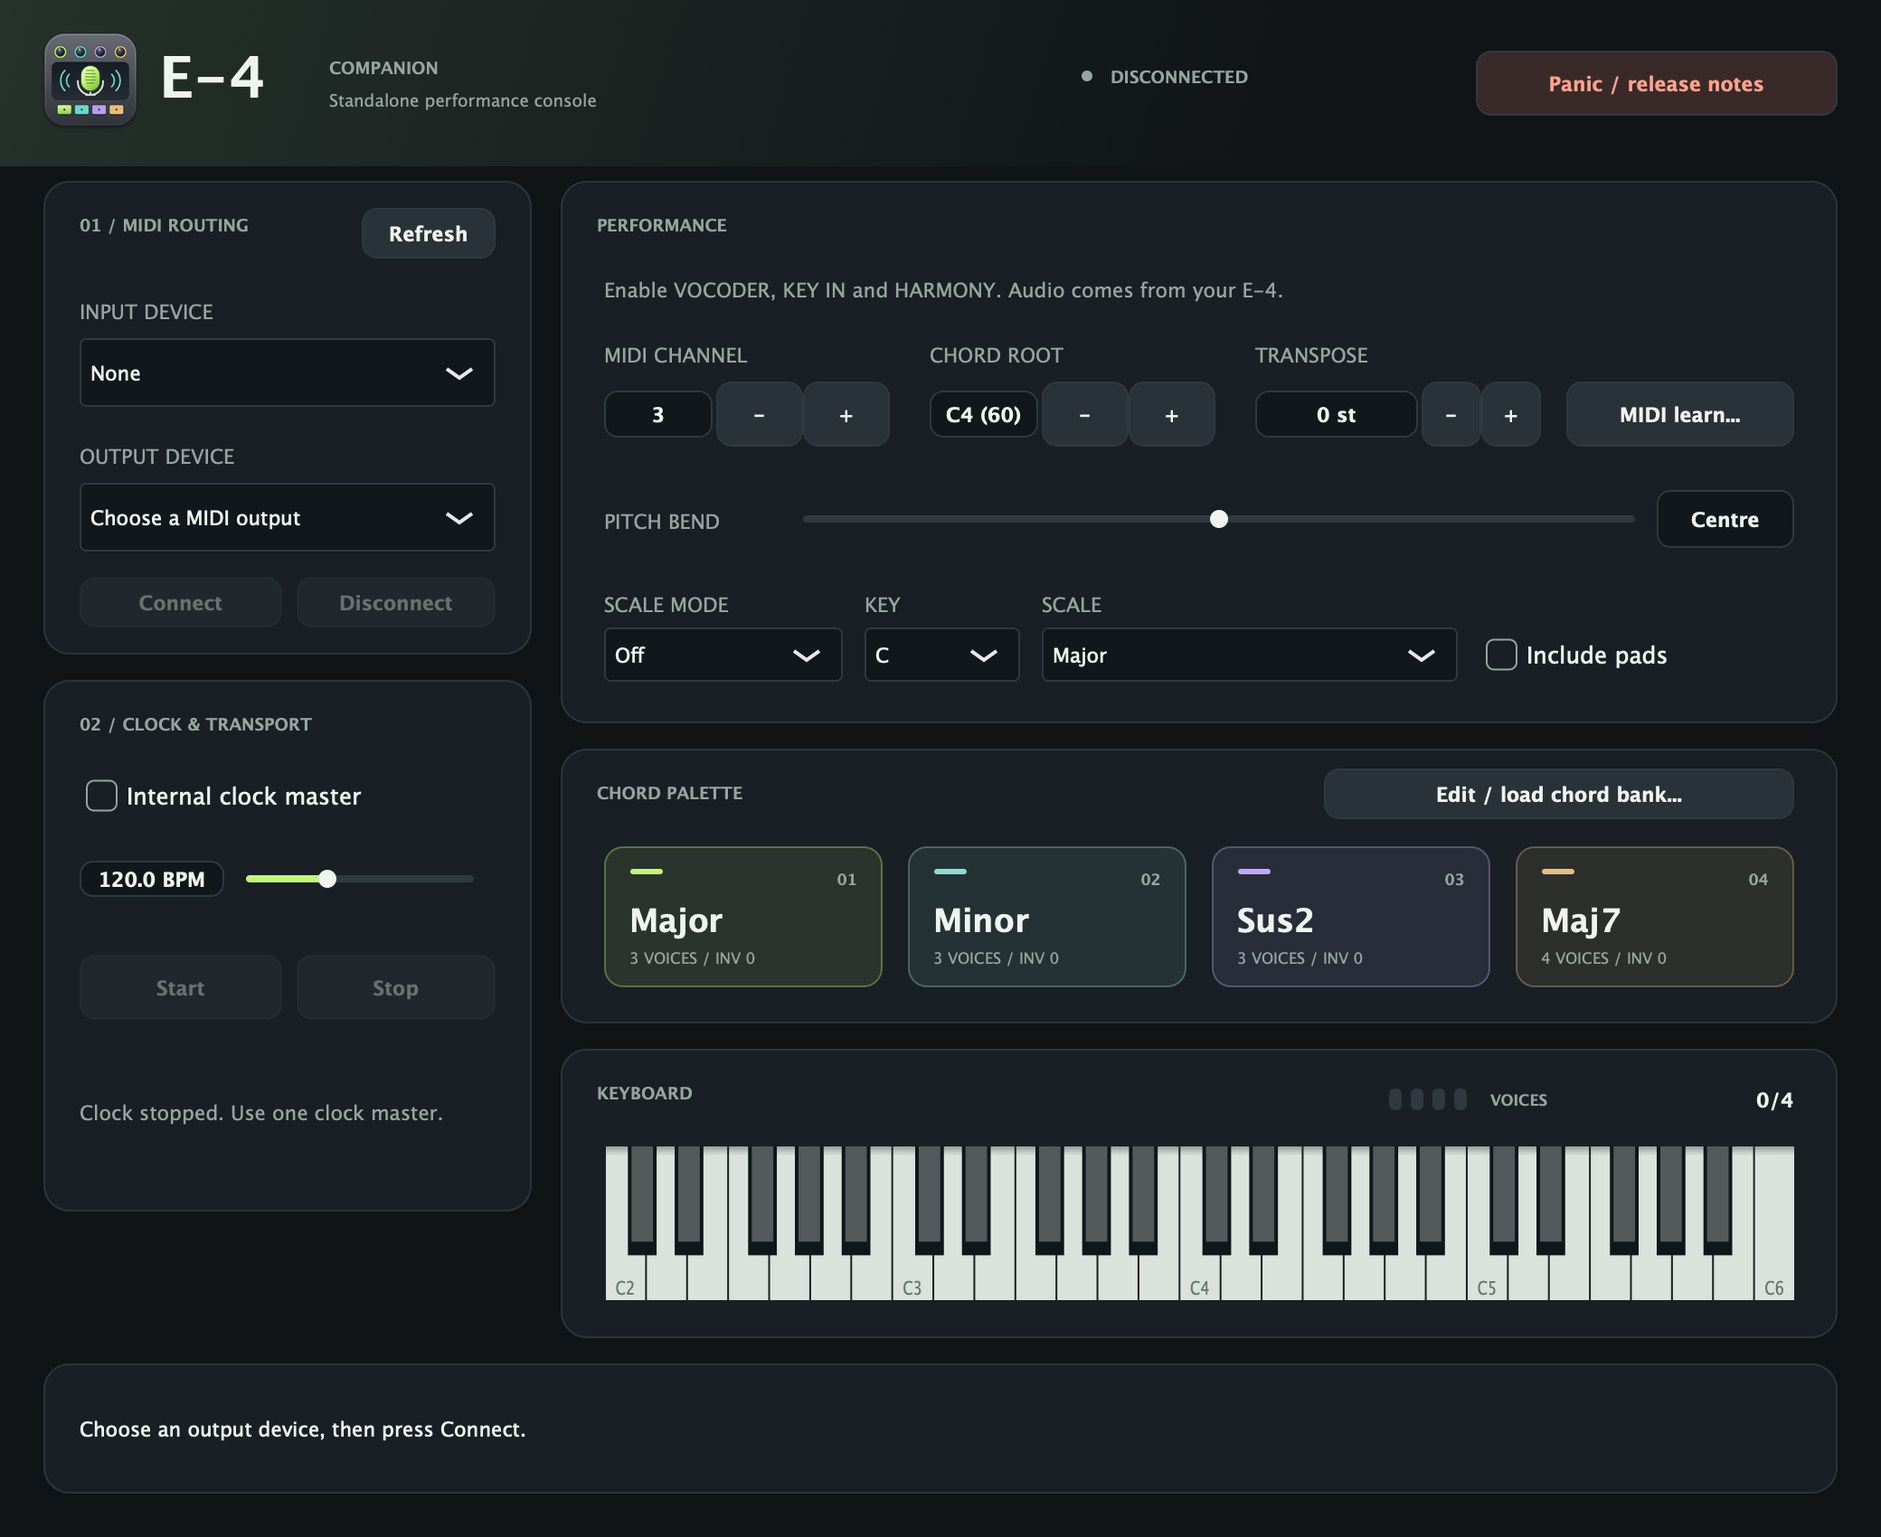
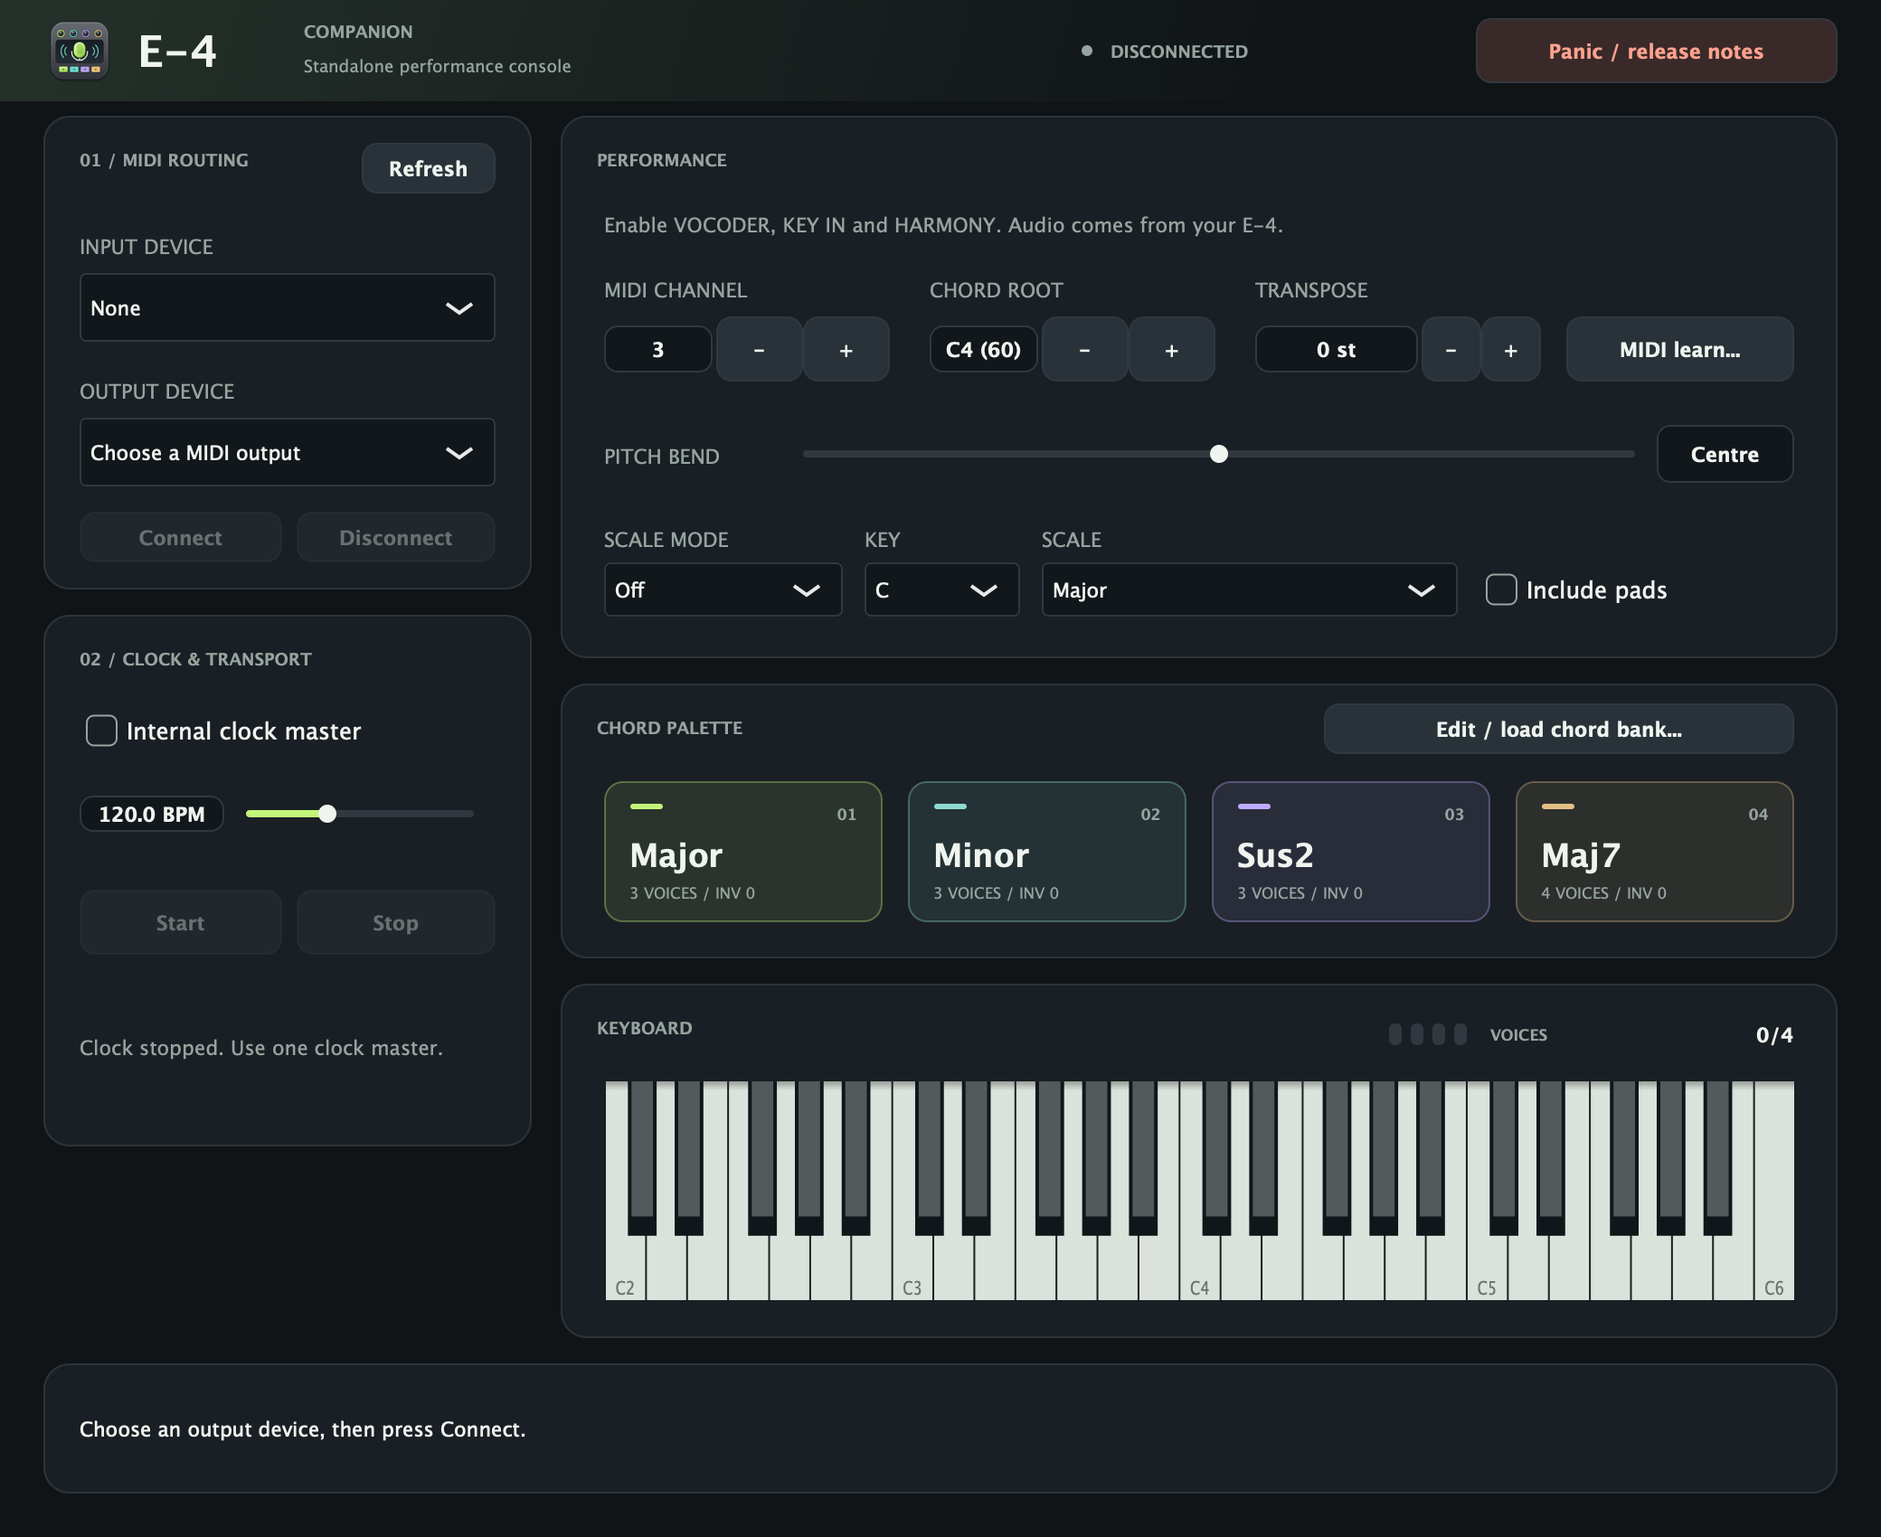
Release 1.0.0 with compact header and taller performance keyboards

diff --git a/Source/StudioTheme.h b/Source/StudioTheme.h
@@ -188,29 +188,29 @@ inline void surface(juce::Graphics& g,int width,int height,bool standalone,bool 
     g.addTransform(juce::AffineTransform::scale(static_cast<float>(width)/designWidth,static_cast<float>(height)/designHeight));
     g.fillAll(background);
     g.setGradientFill(juce::ColourGradient(juce::Colour(0xff25312a),0,0,background,designWidth*0.65f,200,false));
-    g.fillRect(0.0f,0.0f,designWidth,92.0f);
+    g.fillRect(0.0f,0.0f,designWidth,56.0f);
     static const auto logo = [] {
         int size = 0;
         const auto* data = E4BrandData::getNamedResource(E4BrandData::namedResourceList[0],size);
         return juce::ImageCache::getFromMemory(data,size);
     }();
-    g.drawImageWithin(logo,18,12,64,64,juce::RectanglePlacement::centred);
-    g.setColour(text); g.setFont(font(37,true)); g.drawText("E-4",88,18,85,48,juce::Justification::left);
-    g.setColour(muted); g.setFont(font(11,true)); g.drawText("COMPANION",182,28,130,18,juce::Justification::left);
-    g.setFont(font(11)); g.drawText(standalone ? "Standalone performance console" : "Hardware performance plug-in",182,47,240,16,juce::Justification::left);
-    g.setColour(connected ? accent : muted); g.fillEllipse(designWidth-442,39,6,6);
-    g.setFont(font(11,true)); g.drawText(standalone ? (connected ? "CONNECTED" : "DISCONNECTED") : "HOST ROUTING",static_cast<int>(designWidth)-426,31,170,22,juce::Justification::left);
+    g.drawImageWithin(logo,24,8,40,40,juce::RectanglePlacement::centred);
+    g.setColour(text); g.setFont(font(28,true)); g.drawText("E-4",76,9,76,38,juce::Justification::left);
+    g.setColour(muted); g.setFont(font(11,true)); g.drawText("COMPANION",168,9,130,16,juce::Justification::left);
+    g.setFont(font(11)); g.drawText(standalone ? "Standalone performance console" : "Hardware performance plug-in",168,28,240,16,juce::Justification::left);
+    g.setColour(connected ? accent : muted); g.fillEllipse(designWidth-442,25,6,6);
+    g.setFont(font(11,true)); g.drawText(standalone ? (connected ? "CONNECTED" : "DISCONNECTED") : "HOST ROUTING",static_cast<int>(designWidth)-426,17,170,22,juce::Justification::left);
     if (standalone) {
-        card(g,{24,100,270,262},"01 / MIDI ROUTING");
-        card(g,{24,376,270,294},"02 / CLOCK & TRANSPORT");
-        card(g,{310,100,706,300},"PERFORMANCE");
-        card(g,{310,414,706,152},"CHORD PALETTE");
-        card(g,{310,580,706,160},"KEYBOARD");
+        card(g,{24,64,270,262},"01 / MIDI ROUTING");
+        card(g,{24,340,270,294},"02 / CLOCK & TRANSPORT");
+        card(g,{310,64,706,300},"PERFORMANCE");
+        card(g,{310,378,706,152},"CHORD PALETTE");
+        card(g,{310,544,706,196},"KEYBOARD");
         card(g,{24,754,992,72},"");
     } else {
-        card(g,{24,100,912,280},"PERFORMANCE");
-        card(g,{24,394,912,144},"CHORD PALETTE");
-        card(g,{24,552,912,128},"KEYBOARD");
+        card(g,{24,64,912,280},"PERFORMANCE");
+        card(g,{24,358,912,144},"CHORD PALETTE");
+        card(g,{24,516,912,164},"KEYBOARD");
         g.setColour(muted); g.setFont(font(11)); g.drawText("MIDI TO YOUR HARDWARE. AUDIO FROM YOUR E-4.",24,691,912,16,juce::Justification::left);
     }
 }

diff --git a/Source/StandaloneMain.cpp b/Source/StandaloneMain.cpp
@@ -252,24 +252,24 @@ public:
     void resized() override {
         const auto place = [this](juce::Component& c,int x,int y,int w,int h) { c.setBounds(e4::ui::bounds(x,y,w,h,getWidth(),getHeight(),true)); };
         title.setBounds(0,0,0,0);
-        place(panic,816,28,200,36);
-        place(refresh,200,115,74,28);
-        place(inputLabel,44,163,230,18); place(inputs,44,187,230,38);
-        place(outputLabel,44,243,230,18); place(outputs,44,267,230,38);
-        place(connect,44,319,112,28); place(disconnect,164,319,110,28);
-        place(clockEnable,44,426,230,28); place(tempo,44,466,230,40);
-        place(start,44,528,112,36); place(stop,164,528,110,36);
-        place(clockState,44,584,230,62);
-        place(help,334,146,658,28);
-        place(channelLabel,334,187,160,18); place(channel,334,211,160,36);
-        place(mappingButton,866,211,126,36);
-        place(rootLabel,514,187,160,18); place(root,514,211,160,36);
-        place(transposeLabel,694,187,160,18); place(transpose,694,211,160,36);
-        place(scaleControls,334,326,658,52);
-        place(bendLabel,334,278,90,20); place(bend,432,267,560,40);
-        for (int i = 0; i < 4; ++i) place(pads[static_cast<std::size_t>(i)],334+i*168,468,154,78);
-        place(bankButton,732,425,260,28);
-        voices.setBounds(0,0,0,0); place(voiceDisplay,768,597,224,22); place(keyboard,334,634,658,86);
+        place(panic,816,10,200,36);
+        place(refresh,200,79,74,28);
+        place(inputLabel,44,127,230,18); place(inputs,44,151,230,38);
+        place(outputLabel,44,207,230,18); place(outputs,44,231,230,38);
+        place(connect,44,283,112,28); place(disconnect,164,283,110,28);
+        place(clockEnable,44,390,230,28); place(tempo,44,430,230,40);
+        place(start,44,492,112,36); place(stop,164,492,110,36);
+        place(clockState,44,548,230,62);
+        place(help,334,110,658,28);
+        place(channelLabel,334,151,160,18); place(channel,334,175,160,36);
+        place(mappingButton,866,175,126,36);
+        place(rootLabel,514,151,160,18); place(root,514,175,160,36);
+        place(transposeLabel,694,151,160,18); place(transpose,694,175,160,36);
+        place(scaleControls,334,290,658,52);
+        place(bendLabel,334,242,90,20); place(bend,432,231,560,40);
+        for (int i = 0; i < 4; ++i) place(pads[static_cast<std::size_t>(i)],334+i*168,432,154,78);
+        place(bankButton,732,389,260,28);
+        voices.setBounds(0,0,0,0); place(voiceDisplay,768,561,224,22); place(keyboard,334,598,658,122);
         keyboard.setKeyWidth(static_cast<float>(keyboard.getWidth())/29.0f);
         place(status,44,771,952,38);
     }
@@ -504,7 +504,7 @@ private:
 class App final : public juce::JUCEApplication {
 public:
     const juce::String getApplicationName() override { return "E-4 Companion"; }
-    const juce::String getApplicationVersion() override { return "0.1.0"; }
+    const juce::String getApplicationVersion() override { return "1.0.0"; }
     bool moreThanOneInstanceAllowed() override { return false; }
     void initialise(const juce::String&) override { window = std::make_unique<Window>([] { quit(); }); }
     void shutdown() override { window.reset(); }

diff --git a/Source/PluginProcessor.cpp b/Source/PluginProcessor.cpp
@@ -93,16 +93,16 @@ public:
     void resized() override {
         const auto place = [this](juce::Component& c,int x,int y,int w,int h) { c.setBounds(e4::ui::bounds(x,y,w,h,getWidth(),getHeight(),false)); };
         title.setBounds(0,0,0,0);
-        place(panic,736,28,200,36); place(info,44,144,870,24);
-        place(channelLabel,44,179,220,18); place(channel,44,202,220,36);
-        place(mappingButton,770,202,146,36);
-        place(rootLabel,286,179,220,18); place(root,286,202,220,36);
-        place(transposeLabel,528,179,220,18); place(transpose,528,202,220,36);
-        place(bendLabel,44,265,100,22); place(bend,156,255,760,38);
-        for (int i = 0; i < 4; ++i) place(pads[static_cast<std::size_t>(i)],44+i*221,440,209,78);
-        place(bankButton,656,404,260,28);
-        status.setBounds(0,0,0,0); place(voiceDisplay,676,569,240,22); place(keyboard,44,604,872,58);
-        place(scaleControls,44,318,872,52);
+        place(panic,736,10,200,36); place(info,44,108,870,24);
+        place(channelLabel,44,143,220,18); place(channel,44,166,220,36);
+        place(mappingButton,770,166,146,36);
+        place(rootLabel,286,143,220,18); place(root,286,166,220,36);
+        place(transposeLabel,528,143,220,18); place(transpose,528,166,220,36);
+        place(bendLabel,44,229,100,22); place(bend,156,219,760,38);
+        for (int i = 0; i < 4; ++i) place(pads[static_cast<std::size_t>(i)],44+i*221,404,209,78);
+        place(bankButton,656,368,260,28);
+        status.setBounds(0,0,0,0); place(voiceDisplay,676,533,240,22); place(keyboard,44,568,872,94);
+        place(scaleControls,44,282,872,52);
         keyboard.setKeyWidth(static_cast<float>(keyboard.getWidth())/29.0f);
     }
 

diff --git a/scripts/package-macos.py b/scripts/package-macos.py
@@ -101,7 +101,7 @@ sign_args = ['codesign', '--force', '--sign', identity or '-']
 sign_args += ['--timestamp', '--options', 'runtime'] if identity else ['--timestamp=none']
 run(*sign_args, probe)
 run('codesign', '--verify', '--strict', probe)
-(image / 'Read Me.txt').write_text('''E-4 Companion — macOS release preview
+(image / 'Read Me.txt').write_text('''E-4 Companion — macOS release
 
 Quit audio hosts. Double-click E-4 Installer and select VST3, AU and/or standalone
 for your user account without administrator privileges. Existing bundles are

diff --git a/Tools/InstallerMain.cpp b/Tools/InstallerMain.cpp
@@ -103,7 +103,7 @@ private:
 class Installer final : public juce::JUCEApplication {
 public:
     const juce::String getApplicationName() override {return "E-4 Installer";}
-    const juce::String getApplicationVersion() override {return "0.1.0";}
+    const juce::String getApplicationVersion() override {return "1.0.0";}
     bool moreThanOneInstanceAllowed() override {return false;}
     void initialise(const juce::String&) override {
         const auto args=getCommandLineParameterArray();

diff --git a/README.md b/README.md
@@ -6,7 +6,7 @@
 
 **Play your E-4 vocoder from a keyboard, chord pads or Ableton Live. Shape the notes on your computer; hear the voice and effects on the hardware.**
 
-[![Preview](https://img.shields.io/badge/preview-0.1.0-C3EF78?style=for-the-badge)](#getting-started)
+[![Release](https://img.shields.io/badge/release-1.0.0-C3EF78?style=for-the-badge)](#getting-started)
 [![Platform](https://img.shields.io/badge/platforms-macOS%20%7C%20Windows%20%7C%20Linux-28323D?style=for-the-badge)](#platforms-and-formats)
 [![JUCE](https://img.shields.io/badge/JUCE-8.0.10-64DFCE?style=for-the-badge)](#build-from-source)
 [![Project licence](https://img.shields.io/badge/project%20licence-MIT%20or%20GPL--3.0-28323D?style=for-the-badge)](#licence)
@@ -73,7 +73,7 @@ Installer, standalone and settings images are captures of the running macOS wind
 
 ## Getting started
 
-Download the [**0.1.0 studio preview**](https://github.com/wcmCloud/Roland-Aira-Compact-E4/releases/tag/v0.1.0):
+Download the [**1.0.0 release**](https://github.com/wcmCloud/Roland-Aira-Compact-E4/releases/tag/v1.0.0):
 
 - **macOS Intel and Apple Silicon:** signed, Apple-notarised universal DMG with graphical installer, standalone, VST3 and AU.
 - **Windows x64 / ARM64:** unsigned portable ZIPs with standalone, VST3 and a per-user installation helper.
@@ -154,7 +154,7 @@ Four-note hardware playback was confirmed by the user. Audible bend, physical-co
 
 The workflow packages native standalone and VST3 builds with licence notices and corresponding JUCE sources. Windows ZIPs include an optional per-user `install.ps1`; Linux archives include `install.sh`. Windows builds are unsigned previews. CI macOS ZIPs remain unsigned development builds in Actions; use the locally signed and notarised DMG for normal Mac installation. Linux currently targets Ubuntu 24.04 or a compatible system with the documented build dependencies.
 
-To prepare a release, update the version in `CMakeLists.txt`, commit, and push the matching `vX.Y.Z` tag. All six builds must pass before GitHub creates a draft prerelease. Add the locally signed/notarised Mac DMG and its checksum, review the release assets and notes, then publish. Apple signing credentials stay in the local Keychain. See [release notes](docs/RELEASE-NOTES.md) for installation and remaining studio checks.
+To prepare a release, update the version in `CMakeLists.txt`, commit, and push the matching `vX.Y.Z` tag. All six builds must pass before GitHub creates a draft release. Add the locally signed/notarised Mac DMG and its checksum, review the release assets and notes, then publish. Apple signing credentials stay in the local Keychain. See [release notes](docs/RELEASE-NOTES.md) for installation and remaining studio checks.
 
 ## Build from source
 

diff --git a/packaging/README.md b/packaging/README.md
@@ -1,6 +1,6 @@
 # Installers and platform support
 
-The JUCE C++ sources can target macOS, Windows and Linux. Binaries and installers are platform-specific: AU is Apple-only; VST3 needs native builds for each OS and CPU architecture. Only macOS arm64 has currently been built and tested. Windows/Linux support is planned, not certified.
+The JUCE C++ sources can target macOS, Windows and Linux. Binaries and installers are platform-specific: AU is Apple-only; VST3 needs native builds for each OS and CPU architecture. Native macOS, Windows and Linux x64/ARM64 builds passed automated tests. Physical hardware and DAW acceptance outside the documented macOS checks remains pending.
 
 ## macOS
 
@@ -52,7 +52,7 @@ Packaging includes LICENSE.md, MIT/GPL-3.0 texts and THIRD_PARTY_NOTICES.md plus
 
 ## GitHub cross-platform previews
 
-`.github/workflows/release.yml` builds and tests six native architectures. A matching version tag creates a draft prerelease only after every job succeeds. The release remains a draft until its notarised Mac DMG has been added locally and its contents reviewed.
+`.github/workflows/release.yml` builds and tests six native architectures. A matching version tag creates a draft release only after every job succeeds. The release remains a draft until its notarised Mac DMG has been added locally and its contents reviewed.
 
 Windows and Linux use `scripts/package-portable.py`; each artifact includes standalone, VST3, the MIDI probe, studio fixtures, licences and corresponding source. Windows has a per-user PowerShell installation helper; Linux has a per-user shell installation helper. These packages are platform previews and do not imply completed hardware/host acceptance. Windows binaries are unsigned. Linux builds target Ubuntu 24.04 libraries. Linux has no Ableton Live version; test VST3 in a compatible native host.
 

diff --git a/docs/RELEASE-NOTES.md b/docs/RELEASE-NOTES.md
@@ -1,6 +1,8 @@
-E-4 Companion initial studio preview: standalone MIDI companion and VST3 for macOS, Windows and Linux; AU for macOS.
+E-4 Companion 1.0.0: standalone MIDI companion and VST3 for macOS, Windows and Linux; AU for macOS.
 
-Use the signed, notarized macOS DMG when available. macOS ZIP files are unsigned CI development builds. Windows packages are unsigned portable previews. Linux packages require the native ALSA/JACK, X11 and font libraries. Select the architecture matching your plug-in host.
+This release includes a compact 56-pixel header and taller keyboards: 94 pixels in the plug-in and 122 pixels in standalone, with unchanged overall window sizes.
+
+Use the signed, notarized universal macOS DMG for Intel and Apple Silicon. Unsigned macOS CI ZIPs remain in Actions only. Windows packages are unsigned portable builds. Linux packages require the native ALSA/JACK, X11 and font libraries. Select the architecture matching your plug-in host.
 
 Windows: extract the ZIP; Standalone contains the app, VST3 contains the plug-in. The optional install.ps1 installs to the current user's folders and preserves the previous plug-in. Enable the user VST3 location in your DAW if needed. If PowerShell blocks the helper, open PowerShell in the extracted folder and run: powershell -NoProfile -ExecutionPolicy Bypass -File .\install.ps1. You can also copy the VST3 bundle manually to your DAW’s VST3 folder.
 Linux: extract the archive and run ./install.sh; standalone goes to ~/.local/opt/e4-companion and VST3 to ~/.vst3, preserving an existing plug-in.

diff --git a/docs/studio/START-HERE.md b/docs/studio/START-HERE.md
@@ -1,6 +1,6 @@
 # E-4 Companion studio test kit
 
-Release preview 0.1.0 for Apple Silicon Macs. Bring the notarized DMG to the studio; this folder, the Live set and MIDI fixtures are included inside it. AU is included for other-host evaluation; use **VST3 in Ableton Live**.
+Release 1.0.0 includes a universal Mac installer for Intel/Apple Silicon and native Windows/Linux x64/ARM64 packages. Bring the notarized DMG to the studio; this folder, the Live set and MIDI fixtures are included inside it. AU is included for other-host evaluation; use **VST3 in Ableton Live**.
 
 ## Install and connect
 

diff --git a/docs/ui/README.md b/docs/ui/README.md
@@ -18,3 +18,5 @@ cmake --build build-check --target e4_ui_preview
 ```
 
 The preview utility opens no MIDI devices and does not load/save standalone preferences. The original icon is embedded as binary image data in the shared standalone/plug-in header and graphical installer, in addition to the OS bundle icon.
+
+The component previews now show the compact 56-pixel header and taller keyboards (94 pixels in the plug-in, 122 in standalone). The live JPEG captures retain the published 0.1.0 layout.
